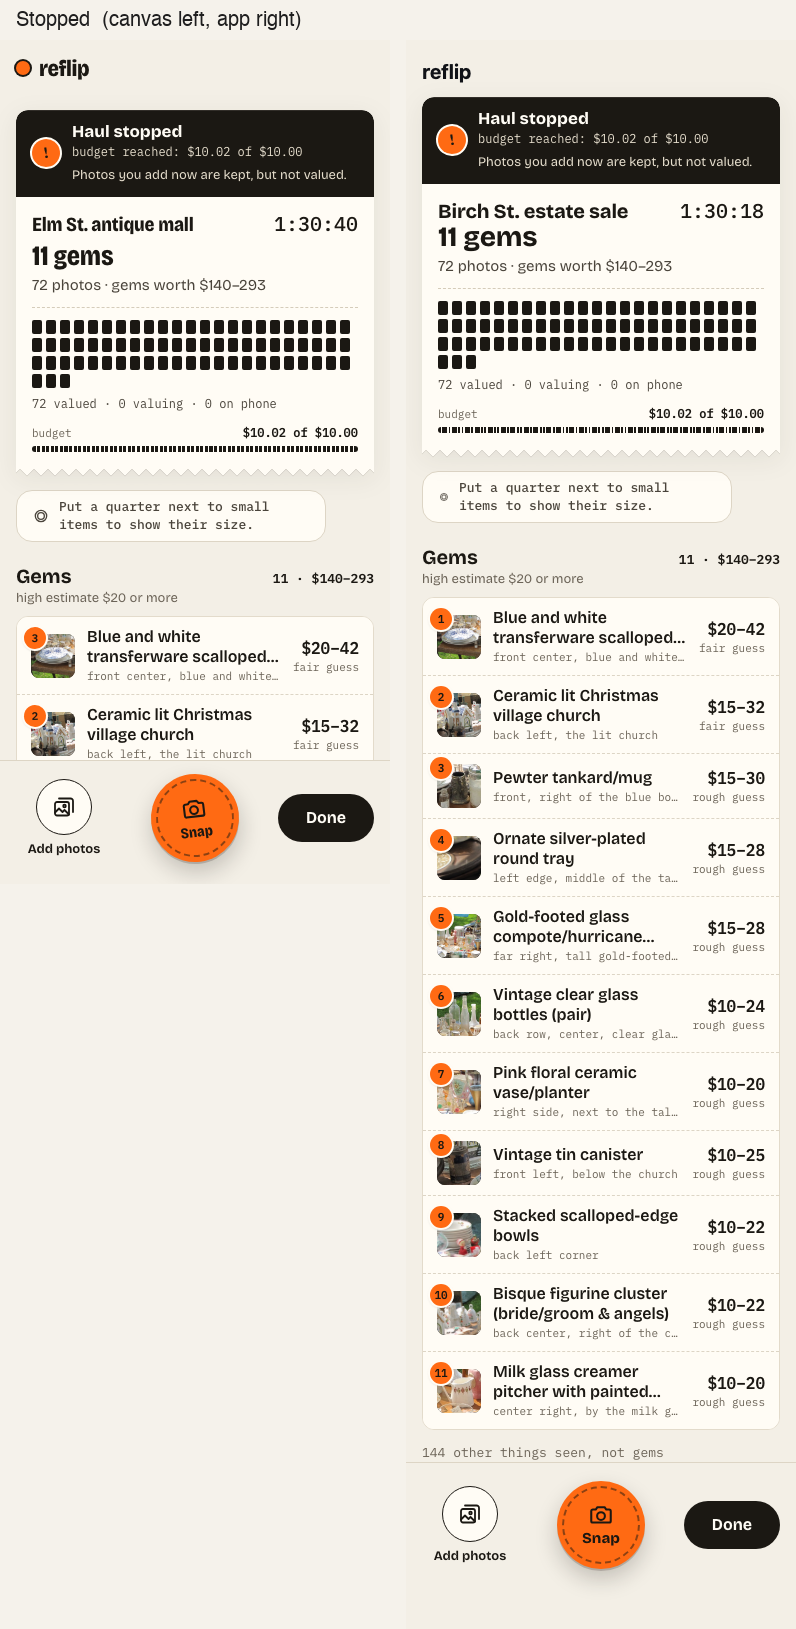
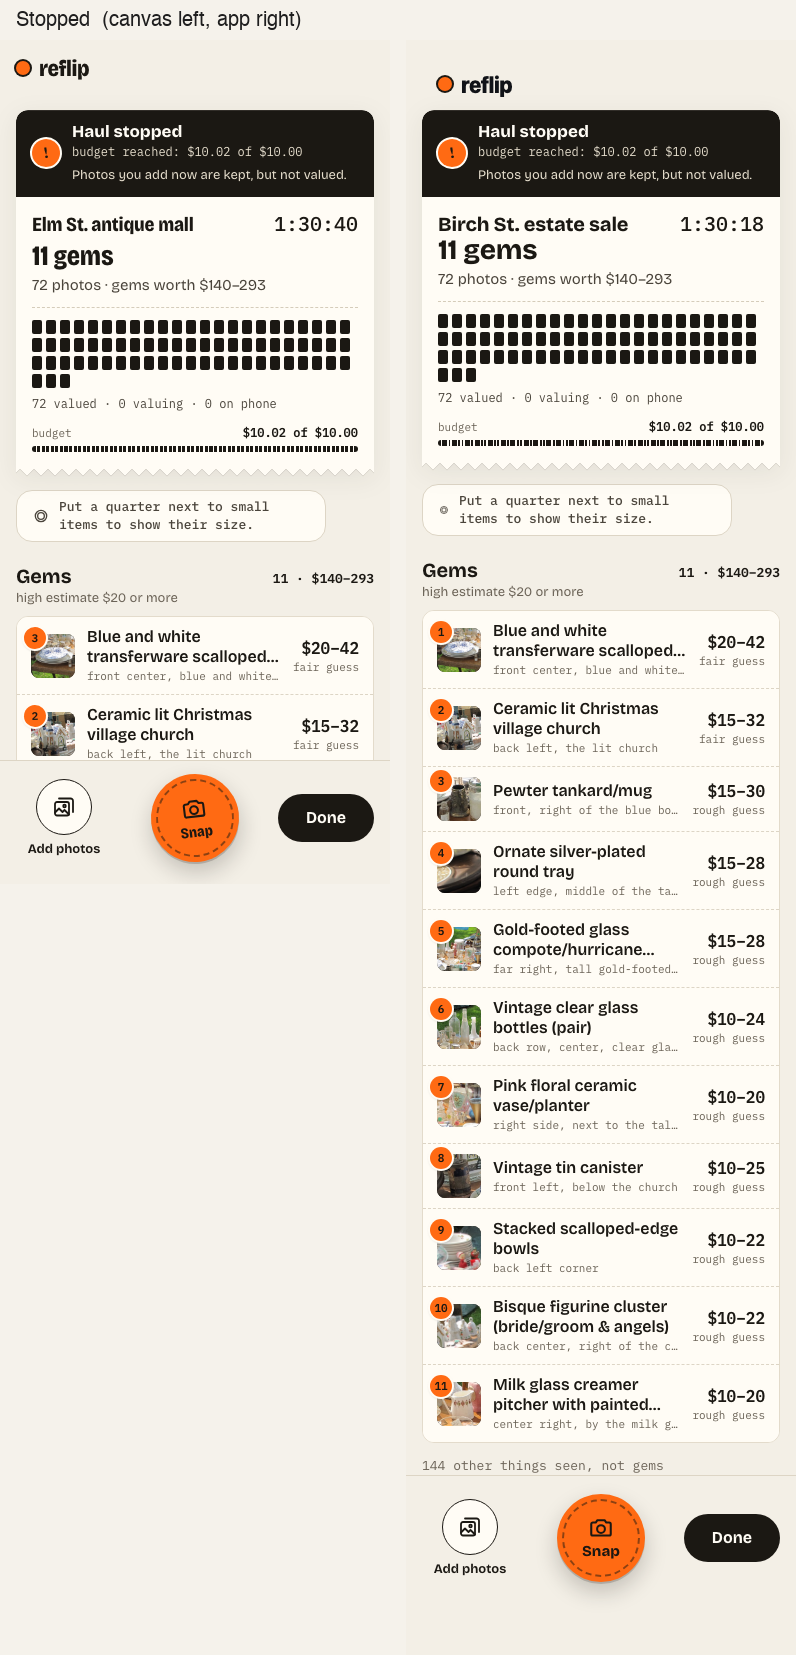
Fix 6 Haul UI visual gaps vs the design canvas
- HAULED stamp: rotate(-8deg) + opacity .88, static and in both
  haul-stamp-land keyframe steps, so reduced motion keeps the tilt.
- Receipt card: reuse the walk ticket's zigzag bottom-edge mask.
- Gem crop and eBay range bar: both HaulLayout.cropOf (k = 358/w) and
  HaulLayout.barWidthPx (328) assume their box renders at that exact
  width, but .haul-gem-detail's 14px side padding stacked a second inset
  on top of .scan-sheet-crop/.scan-ebay's own, narrowing them and
  clipping the crop's edge sticker and the bar's $89.99 label/tick past
  the card's overflow:hidden. Fixed by bleeding both full-bleed past that
  padding with negative margins, matching the canvas's single inset
  level, instead of rewriting HaulLayout's bar geometry to percent units.
- Header wordmark while a haul is open: added the orange dot, matching
  ScanShell's scan-header-logo/-dot/-word markup.
- "Check sold prices on eBay" button: added the aria-hidden arrow icon.

Retook docs/shots/haul-ui/ with haul-shots.mjs and re-verified with
haul-smoke.mjs.

diff --git a/src/web/scan.css b/src/web/scan.css
@@ -1168,9 +1168,14 @@ body:has(.scan-shell) {
 }
 
 .scan-sheet-crop {
+  /* Full-bleed: HaulLayout.cropOf assumes this box renders at exactly
+     358px (the card's outer width), so this cancels the 14px side
+     padding of the .haul-gem-detail parent it sits in (its only user,
+     confirmed by grep) rather than being inset like the surrounding
+     text rows. */
   position: relative;
-  margin-top: 4px;
-  width: 100%;
+  margin: 4px -14px 0;
+  width: auto;
   height: 184px;
   border-radius: 12px;
   overflow: hidden;
@@ -1303,7 +1308,12 @@ body:has(.scan-shell) {
 /* -- eBay block ------------------------------------------------------------------- */
 
 .scan-ebay {
-  margin-top: 16px;
+  /* Full-bleed like .scan-sheet-crop above: HaulLayout.barWidthPx assumes
+     this box's own 14px padding + 1px border is the only inset (matching
+     the canvas, EbayBlock.dc.html), so cancel the .haul-gem-detail
+     parent's 14px side padding here too (its only user, confirmed by
+     grep) instead of stacking a second inset on top of it. */
+  margin: 16px -14px 0;
   padding: 14px;
   border: 1px solid var(--scan-card-border);
   border-radius: var(--scan-radius);
@@ -2074,6 +2084,8 @@ body:has(.scan-shell) {
   border-radius: 12px 12px 0 0;
   background-color: var(--scan-card);
   filter: drop-shadow(0 1px 0 rgba(27, 24, 19, .10)) drop-shadow(0 6px 12px rgba(27, 24, 19, .07));
+  -webkit-mask: conic-gradient(from -45deg at bottom, #0000, #000 1deg 89deg, #0000 90deg) 50% / 14px 100%;
+  mask: conic-gradient(from -45deg at bottom, #0000, #000 1deg 89deg, #0000 90deg) 50% / 14px 100%;
   animation: haul-receipt-print .4s ease-out;
 }
 
@@ -2151,17 +2163,19 @@ body:has(.scan-shell) {
   border: 2px solid var(--scan-ink);
   border-radius: 7px;
   color: var(--scan-ink);
+  transform: rotate(-8deg) scale(1);
+  opacity: .88;
   animation: haul-stamp-land .3s cubic-bezier(.34, 1.56, .64, 1);
 }
 
 @keyframes haul-stamp-land {
   from {
-    transform: scale(1.3);
+    transform: rotate(-8deg) scale(1.3);
     opacity: 0;
   }
   to {
-    transform: scale(1);
-    opacity: 1;
+    transform: rotate(-8deg) scale(1);
+    opacity: .88;
   }
 }
 

diff --git a/docs/shots/haul-ui/click-path.md b/docs/shots/haul-ui/click-path.md
@@ -15,6 +15,6 @@ See scripts/haul-shots.mjs.
 | The same gem closes | Tapping an open row's own header closes it | ok — .haul-gem-detail count after close = 0 (expected 0) |
 | Sold link href (blocked) | a.scan-ebay-sold-btn points at ebay.com; the tap is blocked network-side | ok — href=https://www.ebay.com/sch/i.html?_nkw=vintage%20blue%20white%20transferware%20scalloped%20bowl%20plates&LH_Sold=1&LH_Complete=1, popup opened then blocked (chrome-error, per route.abort) |
 | Done (Finishing) | Tapping Done moves phase to Finishing; the dock bar replaces the controls | ok — Finishing board (.haul-bar present) |
-| Done auto-retry | A failed Done retries once on its own after ~5 s (AppState.retryDelayMs(1)) | ok — second POST /done arrived 5017 ms after the first (Failed board) |
+| Done auto-retry | A failed Done retries once on its own after ~5 s (AppState.retryDelayMs(1)) | ok — second POST /done arrived 5016 ms after the first (Failed board) |
 | The receipt | Once emailedAt is set, phase Finished shows the Haul Receipt section | ok — Done board (section[aria-label='Haul receipt']) |
 | Start a new haul | Tapping it on the receipt returns to the Ready screen (NoHaul) | ok — Done-after-new-haul shot (.haul-ready-start reappeared) |
